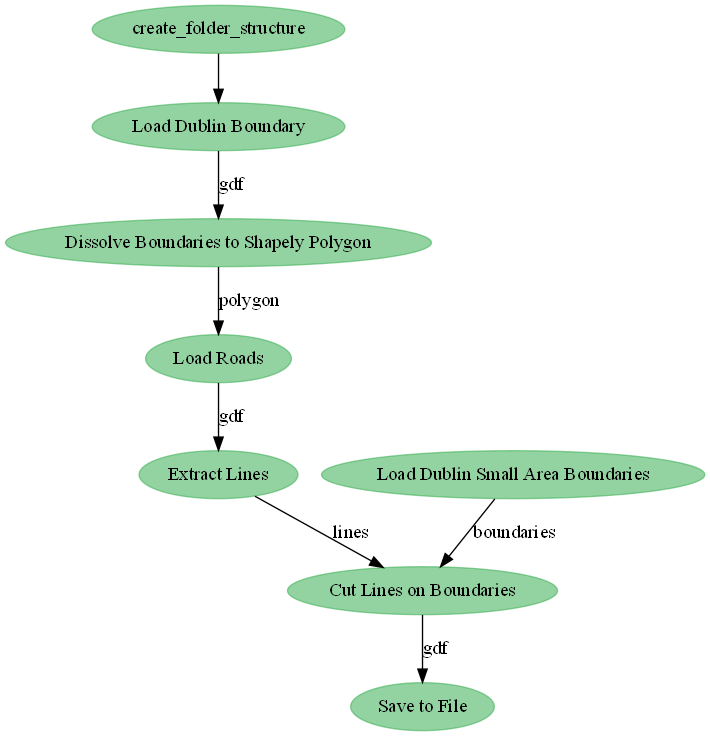
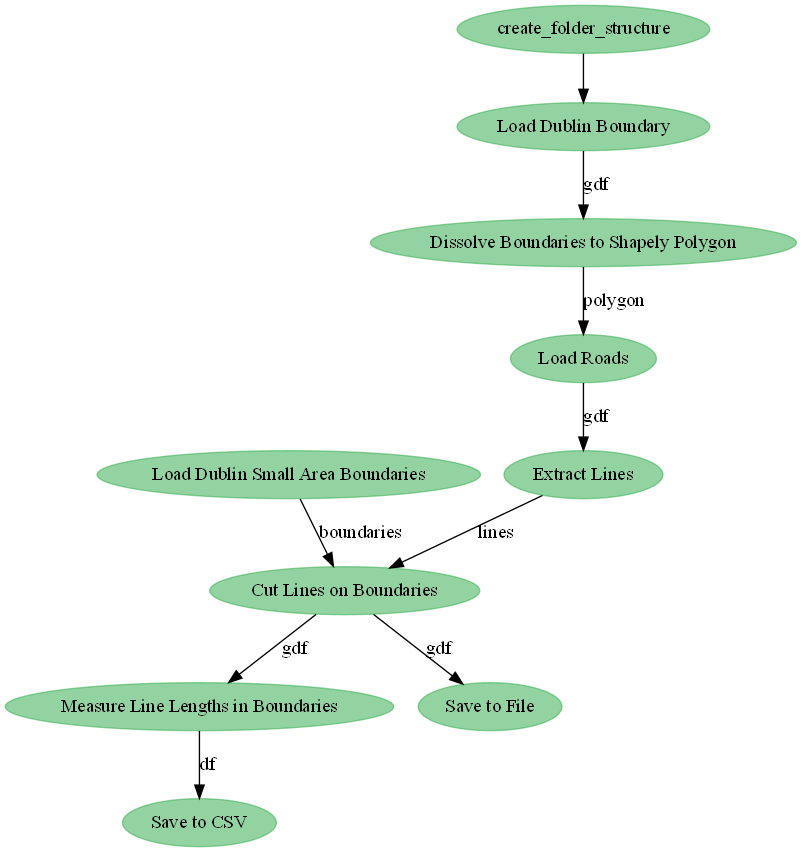
Measure Small Area Road Line Lengths

diff --git a/road-line-lengths/pipeline.py b/road-line-lengths/pipeline.py
@@ -24,7 +24,12 @@ INPUT_FILEPATHS = {
 }
 
 OUTPUT_FILEPATHS = {
-    "roads": DATA_DIR / "processed" / f"osm_roads_{DAY}_{MONTH}_{YEAR}.gpkg",
+    "roads_in_small_areas": DATA_DIR
+    / "processed"
+    / f"osm_roads_{DAY}_{MONTH}_{YEAR}.gpkg",
+    "small_area_line_lengths": DATA_DIR
+    / "processed"
+    / f"osm_road_line_lengths_{DAY}_{MONTH}_{YEAR}.csv",
 }
 
 with Flow("Measure Small Area Road Line lengths") as flow:
@@ -39,15 +44,21 @@ with Flow("Measure Small Area Road Line lengths") as flow:
         filepath=INPUT_FILEPATHS["dublin_small_area_boundaries"],
     )
     dublin_polygon = tasks.dissolve_boundaries_to_polygon(dublin_boundary)
-    osm_highway = tasks.load_roads(
+    highway = tasks.load_roads(
         dublin_polygon, INPUT_FILEPATHS["roads"], columns=["highway", "geometry"]
     )
-    osm_roads = tasks.extract_lines(osm_highway)
-    osm_roads_in_small_areas = tasks.cut_lines_on_boundaries(
-        lines=osm_roads, boundaries=dublin_small_area_boundaries
+    roads = tasks.extract_lines(highway)
+    roads_in_small_areas = tasks.cut_lines_on_boundaries(
+        lines=roads, boundaries=dublin_small_area_boundaries
+    )
+    small_area_line_lengths = tasks.measure_line_lengths_in_boundaries(
+        roads_in_small_areas, "small_area"
     )
 
-    tasks.save_to_gpkg(osm_roads_in_small_areas, OUTPUT_FILEPATHS["roads"])
+    tasks.save_to_gpkg(roads_in_small_areas, OUTPUT_FILEPATHS["roads_in_small_areas"])
+    tasks.save_to_csv(
+        small_area_line_lengths, OUTPUT_FILEPATHS["small_area_line_lengths"]
+    )
 
 state = flow.run()
 flow.visualize(flow_state=state, filename=HERE / "flow", format="png")

diff --git a/road-line-lengths/functions.py b/road-line-lengths/functions.py
@@ -56,5 +56,18 @@ def cut_lines_on_boundaries(
     return gpd.overlay(lines, boundaries, "union")
 
 
+def measure_line_lengths_in_boundaries(
+    gdf: gpd.GeoDataFrame, boundary_column_name: str
+) -> gpd.GeoDataFrame:
+    line_lengths = pd.concat(
+        [gdf[boundary_column_name], gdf.geometry.to_crs(epsg=2157).length], axis=1
+    )
+    return (
+        line_lengths.groupby(boundary_column_name, as_index=False)
+        .sum()
+        .rename(columns={0: "line_length_m"})
+    )
+
+
 def save_to_gpkg(gdf: gpd.GeoDataFrame, filepath: Path) -> None:
     gdf.to_file(filepath, driver="GPKG")

diff --git a/road-line-lengths/tasks.py b/road-line-lengths/tasks.py
@@ -17,5 +17,12 @@ extract_lines = task(functions.extract_lines, name="Extract Lines")
 cut_lines_on_boundaries = task(
     functions.cut_lines_on_boundaries, name="Cut Lines on Boundaries"
 )
+measure_line_lengths_in_boundaries = task(
+    functions.measure_line_lengths_in_boundaries,
+    name="Measure Line Lengths in Boundaries",
+)
 
 save_to_gpkg = task(functions.save_to_gpkg, name="Save to File")
+save_to_csv = task(
+    lambda df, filepath: df.to_csv(filepath, index=False), name="Save to CSV"
+)

diff --git a/road-line-lengths/README.md b/road-line-lengths/README.md
@@ -1,0 +1,21 @@
+# Road Line Lengths
+
+## What `pipeline.py` is doing:
+
+![flow.png](flow.png)
+
+## Setup
+
+Via [conda](https://github.com/conda-forge/miniforge):
+
+- Minimal
+```bash
+conda env create --file environment.yml --name line-lengths
+conda activate line-lengths
+```
+
+Now run the pipeline:
+
+```bash
+python pipeline.py
+```
